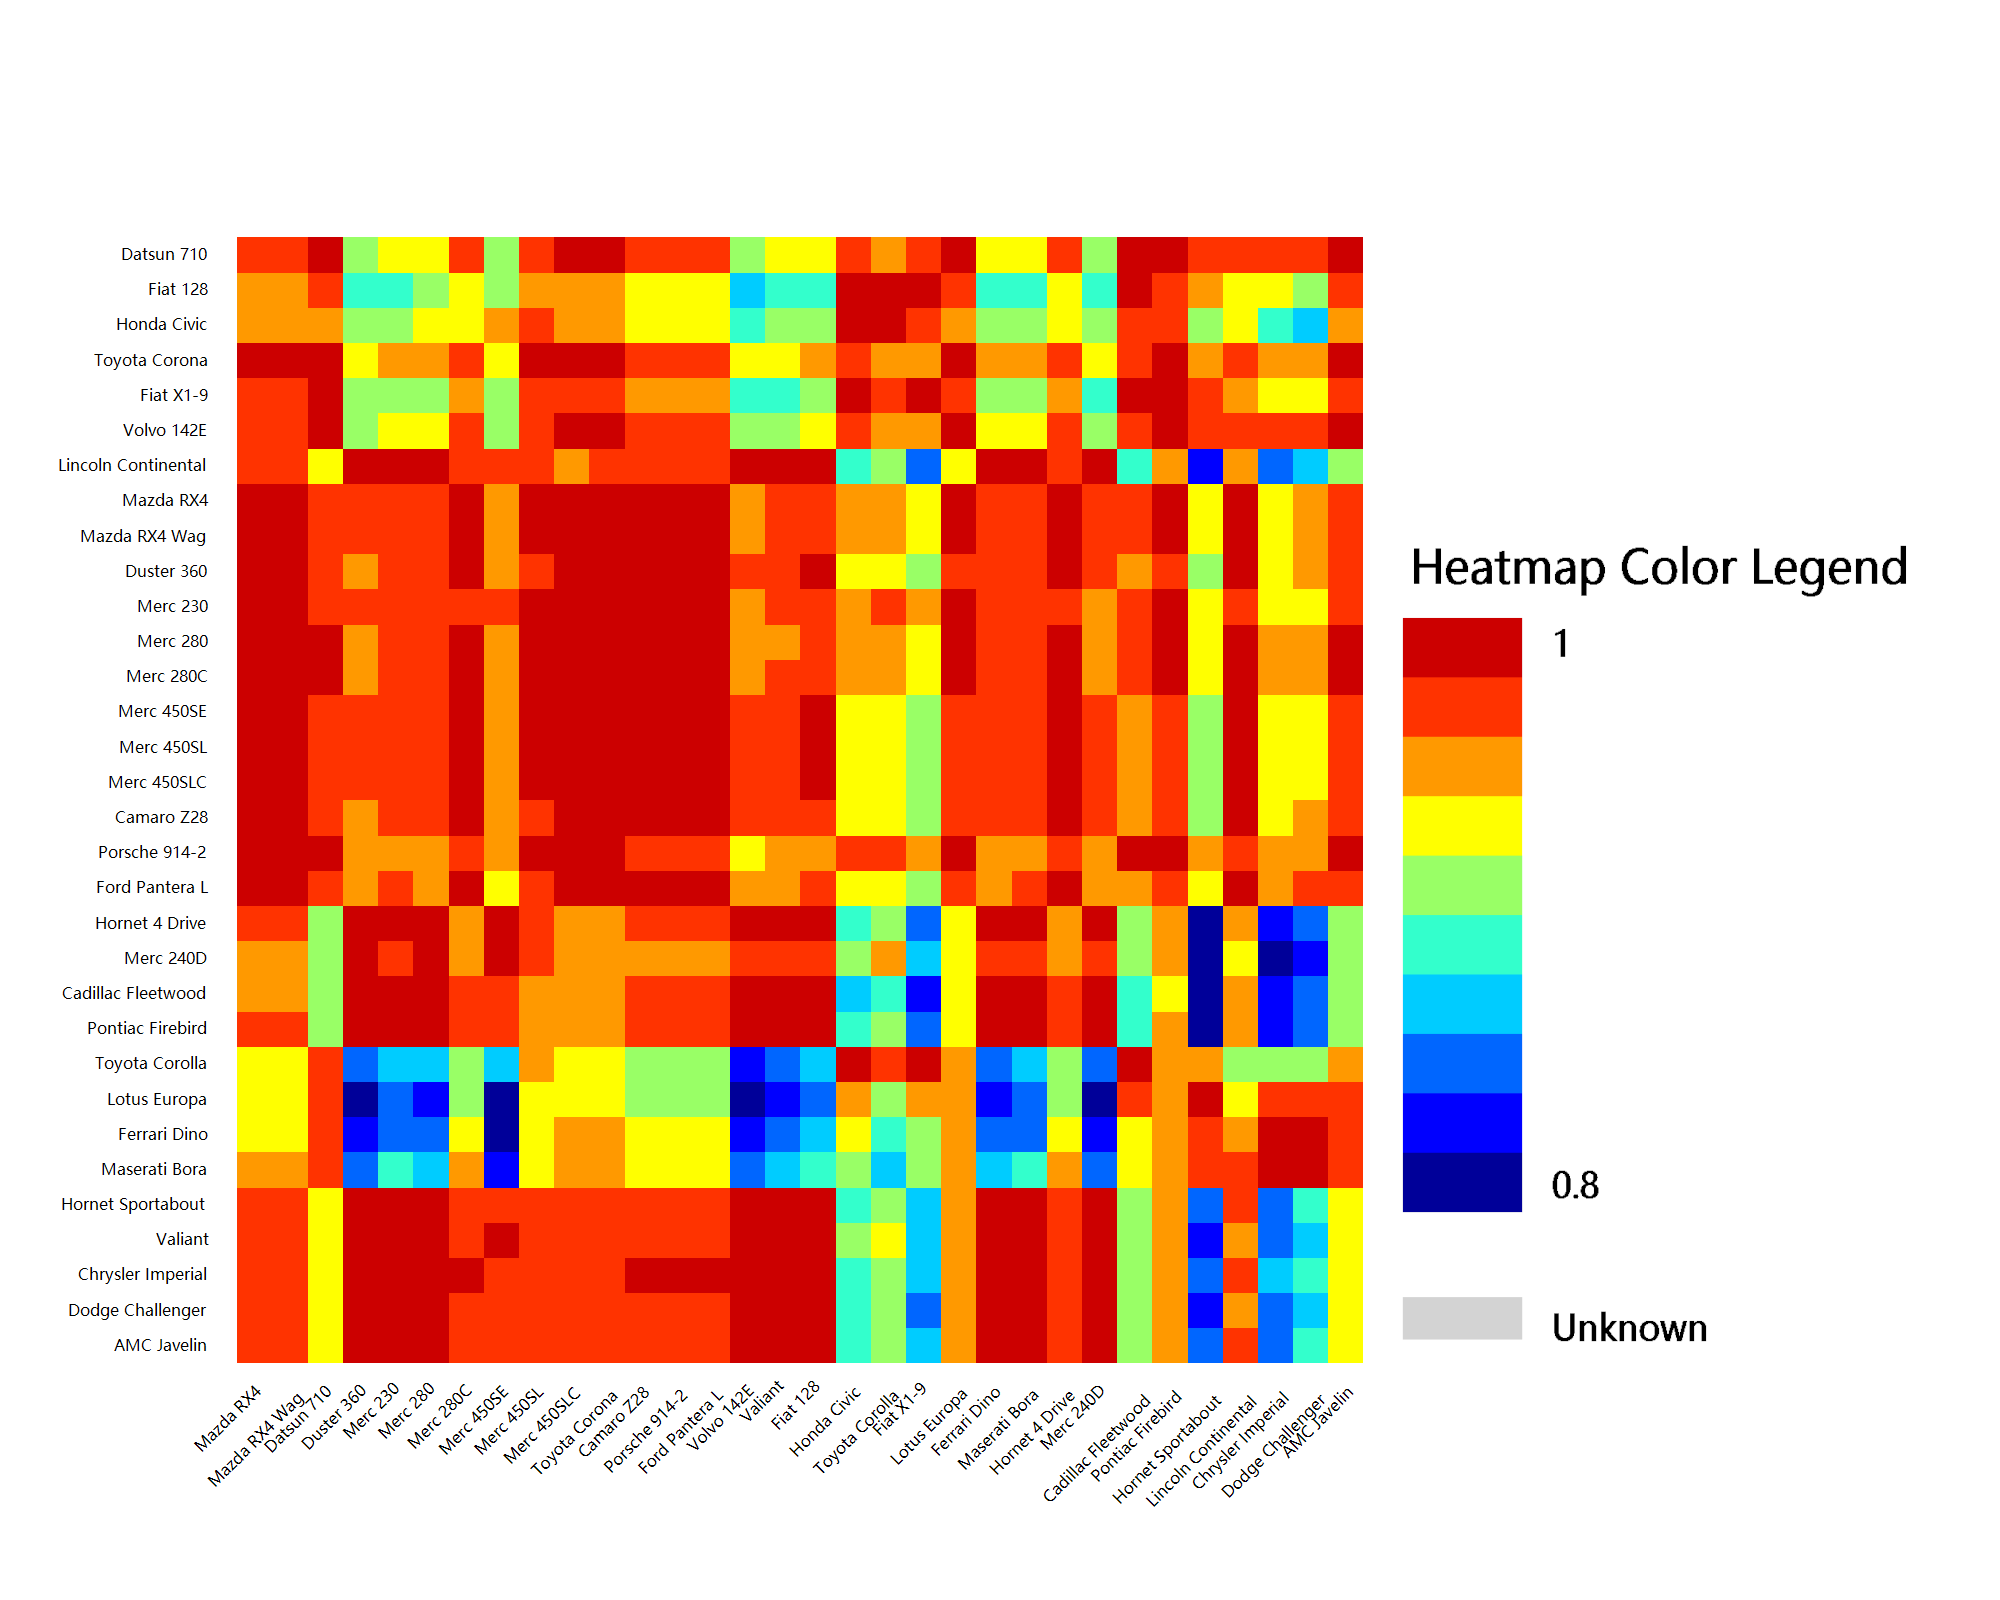
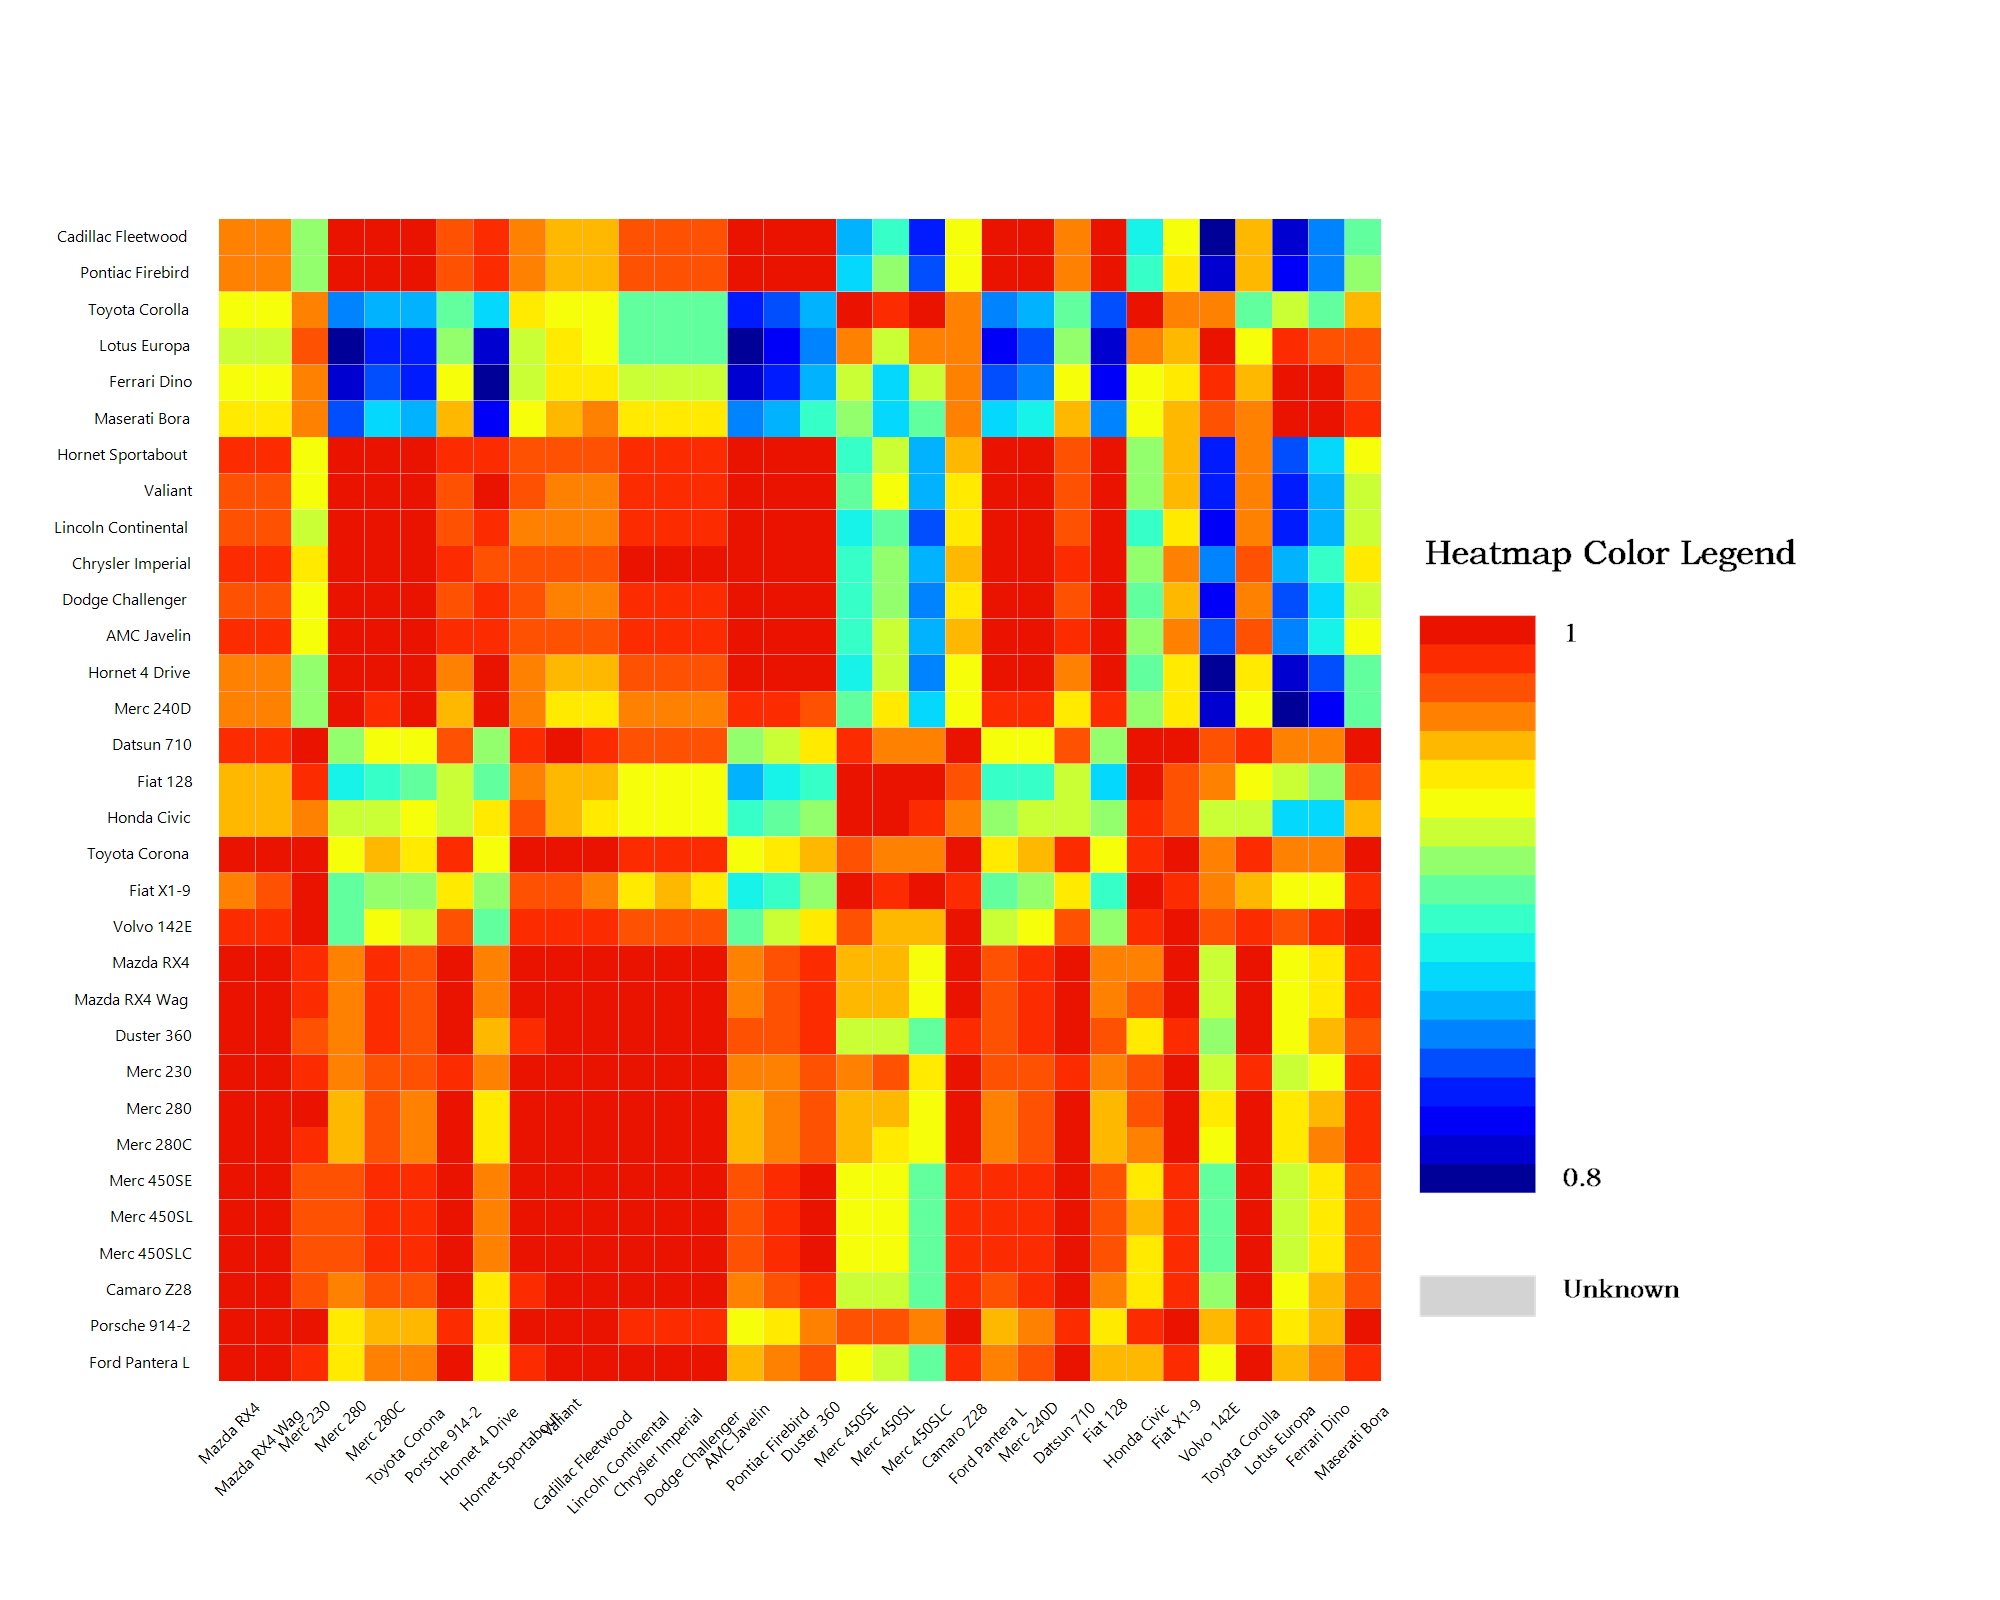
improvements on the heatmap color theme

diff --git a/README.md b/README.md
@@ -77,6 +77,17 @@ Imports Microsoft.VisualBasic.Mathematical.Plots
 <a href="./Data_science/Mathematical/data/beta-PDF/">![](./Data_science/Mathematical/data/beta-PDF/beta_hist.png)</a>
 
 ![](./Data_science/Mathematical/images/heatmap.png)
+
+```vbnet
+Dim data = DataSet.LoadDataSet("./Quick_correlation_matrix_heatmap/mtcars.csv")
+
+Call data.CorrelatesNormalized() _
+    .Plot(mapName:="Jet",  ' Using internal color theme 'Jet'
+          mapLevels:=20,
+          legendFont:=New Font(FontFace.BookmanOldStyle, 32)) _
+    .SaveAs("./images/heatmap.png")
+```
+
 > ###### Microsoft.VisualBasic.Mathematical.Plots.Heatmap::Plot(IEnumerable(Of NamedValue(Of Dictionary(Of String, Double))), Color(), Integer, String, Boolean, Size, Size, String, String, String) As Bitmap
 >
 > Heatmap data source from R dataset [``mtcars``](./Data_science/Mathematical/Quick_correlation_matrix_heatmap/mtcars.csv) and calculates [the Pearson correlations](./Microsoft.VisualBasic.Architecture.Framework/Extensions/Math/Correlations.vb):

diff --git a/Data_science/Mathematical/README.MD b/Data_science/Mathematical/README.MD
@@ -78,6 +78,20 @@ Call Bubble _
 
 ![](./images/heatmap.png)
 
+Using colorbrewer theme:
+
+```vbnet
+Dim data = DataSet.LoadDataSet("./Quick_correlation_matrix_heatmap/mtcars.csv")
+
+Call data.CorrelatesNormalized() _
+    .Plot(mapName:="PRGn:c6",  ' Using colorbrewer theme
+          mapLevels:=20,
+          legendFont:=New Font(FontFace.BookmanOldStyle, 32)) _
+    .SaveAs("./images/heatmap-colorbrewer-PRGn-c6.png")
+```
+
+![](./images/heatmap-colorbrewer-PRGn-c6.png)
+
 ##### Scatter & Histogram Plot
 
 ```vbnet
